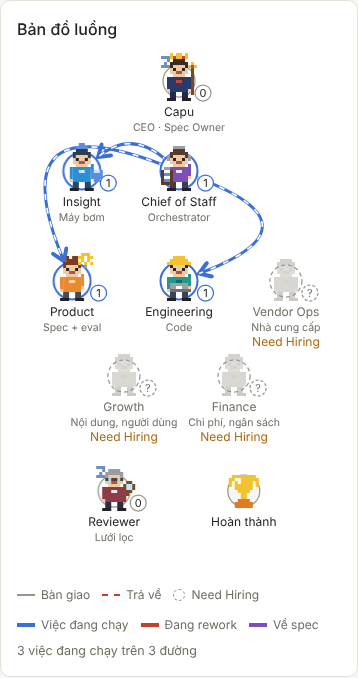
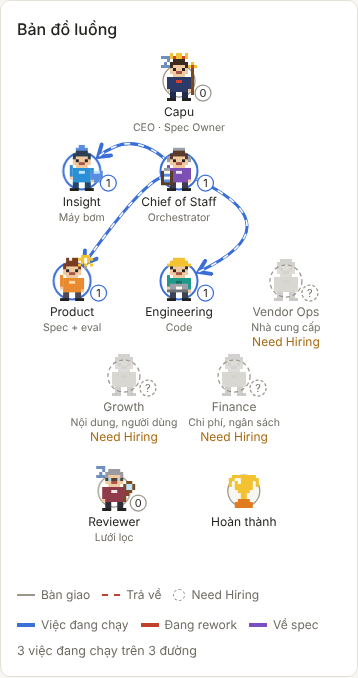
[T-021] Sửa D2: nhãn bậc / spec gắn rõ với đường của nó; giữ bố cục
- Nhãn tier, await-merge, spec-edge đặt sát đường của nó (cách <= 11px, xa mọi đường khác hơn >= 13px) hoặc có đường dẫn [data-leader] ngắn nối nhãn với đường; "chờ anh merge" xuống hai dòng khi hết chỗ
- Đường bàn giao chọn tuyến theo cả cặp nút (tách các đường cùng cặp), không cắt nhãn vai, không đi vòng quá 1,7 lần khoảng cách hai tâm; kết quả nhớ theo bố cục
- Chín tâm nút giữ nguyên; chụp lại 36 ảnh

Claude-Session: https://claude.ai/code/session_01UGMXKqieLcV2K1vphWF5EZ

diff --git a/index.html b/index.html
@@ -529,6 +529,7 @@ function characterState(id,x,now){
 }
 const CHAR_LABEL={revising:'Đang sửa spec',idle:'Rảnh',working:'Đang làm',receiving:'Vừa nhận việc','handing-off':'Vừa giao việc',celebrating:'Hoàn thành',upset:'Bị trả về',hiring:'Chưa tuyển'};
 let stateTimer=0;
+const routeCache={sig:'',routes:new Map()};
 
 function drawFlow(x){
   const box=$('flow');box.innerHTML='';
@@ -547,43 +548,62 @@ function drawFlow(x){
     const tw=tip.node().offsetWidth,th=tip.node().offsetHeight;let px=ev.clientX-rect.left+12,py=ev.clientY-rect.top-th-8;if(px+tw>rect.width)px=rect.width-tw-4;if(py<0)py=ev.clientY-rect.top+14;tip.style('left',px+'px').style('top',py+'px').style('opacity',1)};
   const hide=()=>tip.style('opacity',0);
   // vùng nhãn nhân vật (tên, vai, dòng thứ ba) và nút, đo bằng chữ thật: đường, huy hiệu và nhãn trên đường tránh các vùng này
-  const taken=[],tags=[],roleBox=[],nameBox=[],overlap=(a,b)=>Math.max(0,Math.min(a[0]+a[2],b[0]+b[2])-Math.max(a[0],b[0]))*Math.max(0,Math.min(a[1]+a[3],b[1]+b[3])-Math.max(a[1],b[1]));
+  const taken=[],tags=[],edgePts=[],roleBox=[],nameBox=[],overlap=(a,b)=>Math.max(0,Math.min(a[0]+a[2],b[0]+b[2])-Math.max(a[0],b[0]))*Math.max(0,Math.min(a[1]+a[3],b[1]+b[3])-Math.max(a[1],b[1]));
   const tw=(txt,fs)=>{const t=svg.append('text').style('font-size',fs+'px').text(txt),w=t.node().getComputedTextLength();t.remove();return w};
   Object.keys(pos).forEach(k=>{const [cx,cy]=P(k),L=Math.max(R(k),20),m=team.get(k);
     taken.push([cx-L-2,cy-L-10,2*L+30,2*L+12]);
-    const line=(txt,dy,fs,list)=>{const w=tw(txt,fs)+6,b=[cx-w/2,cy+L+dy-fs,w,fs+5];taken.push(b);if(list)list.push(b)};
+    const line=(txt,dy,fs,list)=>{const w0=tw(txt,fs),w=w0+6;taken.push([cx-w/2,cy+L+dy-fs,w,fs+5]);if(list)list.push([cx-w0/2,cy+L+dy-fs+1,w0,fs+2])};
     line(m?m.name:'Hoàn thành',15,12,nameBox);if(m){line(m.role,30,10.5,roleBox);line('Need Hiring',45,12)}});
-  // Đường bàn giao là cung bậc hai. Thử vài độ cong, hai phía (cong mặc định trước), lấy đường không cắt nhãn vai,
-  // ít cắt tên và nút khác nhất. flip: ưu tiên phía ngược lại, để đường spec không chồng lên đường rework cùng hai đầu.
+  // Đường bàn giao là cung bậc hai. Mỗi đường thử nhiều độ cong, hai phía và điểm bám trên viền nút; chọn đường không cắt nhãn vai,
+  // ít cắt tên, tách xa các đường khác (nhất là cùng cặp nút) để còn chỗ cho nhãn bậc, và không đi vòng quá 1,7 lần khoảng cách hai tâm.
+  // flip: ưu tiên phía ngược lại (đường spec). Giải lần lượt rồi chỉnh lại 2 vòng cho mỗi đường né các đường còn lại; kết quả nhớ theo bố cục.
   const routes=new Map();
-  const edge=(a,b,flip)=>{
-    const key=a+'>'+b+(flip?'f':'');if(routes.has(key))return routes.get(key);
+  const solve=(a,b,flip,others)=>{
     const [x1,y1]=P(a),[x2,y2]=P(b),dx=x2-x1,dy=y2-y1,len=Math.hypot(dx,dy)||1,flat=Math.abs(dy)<1;
-    const nx=flat?0:-dy/len,ny=flat?-1:dx/len,base=flat?30+len*.12:18;
-    const inside=(px,py,b)=>px>b[0]-2&&px<b[0]+b[2]+2&&py>b[1]-2&&py<b[1]+b[3]+2;
-    let best=null,idx=0;
+    const nx=flat?0:-dy/len,ny=flat?-1:dx/len,base=flat?30+len*.12:18,pair=[a,b].sort().join('~');
+    const inside=(px,py,b)=>px>b[0]&&px<b[0]+b[2]&&py>b[1]&&py<b[1]+b[3];
     const tx=dx/len,ty=dy/len,rot=(vx,vy,deg)=>{const c=Math.cos(deg*Math.PI/180),n=Math.sin(deg*Math.PI/180);return [vx*c-vy*n,vx*n+vy*c]};
     // điểm bám trên viền nút cũng được xoay (0, ±45, ±80 độ), để đường rời nút từ bên hông khi phía dưới là nhãn
     const ANG=[[0,0],[0,45],[0,-45],[45,0],[-45,0],[45,45],[-45,-45],[45,-45],[-45,45],[0,80],[0,-80],[80,0],[-80,0],[80,80],[-80,-80],[80,-80],[-80,80]];
+    const N=24;let best=null,idx=0;
     search:for(const [ra,rb] of ANG)for(const shift of [0,-40,40])for(const extra of [0,14,30,50,75,100,130,160])for(const sg of (flip?[-1,1]:[1,-1])){
       const cx=(x1+x2)/2+sg*nx*(base+extra)+tx*shift,cy=(y1+y2)/2+sg*ny*(base+extra)+ty*shift;
       const ua=Math.hypot(cx-x1,cy-y1),ub=Math.hypot(cx-x2,cy-y2);
       const [ax,ay]=rot((cx-x1)/ua,(cy-y1)/ua,ra),[bx,by]=rot((cx-x2)/ub,(cy-y2)/ub,rb);
       const s0=[x1+ax*R(a),y1+ay*R(a)],e0=[x2+bx*(R(b)+3),y2+by*(R(b)+3)];
-      let bad=0;
-      for(let i=1;i<40;i++){const t=i/40,u=1-t,px=u*u*s0[0]+2*u*t*cx+t*t*e0[0],py=u*u*s0[1]+2*u*t*cy+t*t*e0[1];
+      let bad=0,plen=0,lx=s0[0],ly=s0[1];const pts=[];
+      for(let i=1;i<N;i++){const t=i/N,u=1-t,px=u*u*s0[0]+2*u*t*cx+t*t*e0[0],py=u*u*s0[1]+2*u*t*cy+t*t*e0[1];
         if(roleBox.some(q=>inside(px,py,q)))bad+=1000;
         if(nameBox.some(q=>inside(px,py,q)))bad+=10;
-        if(px<4||px>W-4||py<0||py>H)bad+=200}
+        if(px<4||px>W-4||py<0||py>H)bad+=200;
+        if(i>4&&i<N-4)for(const o of others){const d=Math.hypot(o[0]-px,o[1]-py),same=o[2]===pair,lim=same?26:30;if(d<lim){bad+=(lim-d)/lim*(same?60:12);break}}
+        pts.push([px,py]);
+        plen+=Math.hypot(px-lx,py-ly);lx=px;ly=py}
+      if(plen>1.7*len)bad+=5000;  // đường đi vòng quá xa là vẽ lại bố cục
       const sc=bad+idx++*.001;
-      if(!best||sc<best.sc)best={sc,d:`M${s0[0]},${s0[1]}Q${cx},${cy} ${e0[0]},${e0[1]}`};
+      if(!best||sc<best.sc)best={sc,pair,pts:pts.filter((_,i)=>i%2===0).map(q=>[q[0],q[1],pair]),d:`M${s0[0]},${s0[1]}Q${cx},${cy} ${e0[0]},${e0[1]}`};
       if(sc<1)break search;
     }
-    routes.set(key,best.d);return best.d};
+    return best;
+  };
+  const edgeKey=(a,b,flip)=>a+'>'+b+(flip?'f':'');
+  const edge=(a,b,flip)=>(routes.get(edgeKey(a,b,flip))||{}).d;
   const g=svg.append('g');
   const flows=x.flows.filter(r=>pos[r.from]&&pos[r.to]);
   const act=x.active.filter(r=>pos[r.from]&&pos[r.to]).sort((p,q)=>p.since<q.since?1:p.since>q.since?-1:0);
   const dim=act.length?0.45:1;
+  {
+    const want=[],seen=new Set(),add=(a,b,f)=>{const k=edgeKey(a,b,f);if(!seen.has(k)){seen.add(k);want.push([k,a,b,f])}};
+    flows.forEach(r=>{if(r.handoffs>0)add(r.from,r.to,false);if(r.rejects>0)add(r.to,r.from,false)});
+    act.forEach(r=>add(r.from,r.to,!!r.spec));
+    const sig=[W,H,want.map(w=>w[0]).join(','),Object.keys(pos).map(k=>(team.get(k)||{}).role+'|'+((team.get(k)||{}).name)+'|'+R(k)).join(';')].join('#');
+    if(routeCache.sig!==sig){
+      const store=new Map(),others=skip=>{const o=[];for(const [k,v] of store)if(k!==skip)o.push(...v.pts);return o};
+      for(let pass=0;pass<3;pass++)want.forEach(([k,a,b,f])=>{store.set(k,solve(a,b,f,others(k)))});
+      routeCache.sig=sig;routeCache.routes=store;
+    }
+    routeCache.routes.forEach((v,k)=>routes.set(k,v));
+  }
   flows.forEach(r=>{
     if(r.handoffs>0)g.append('path').attr('d',edge(r.from,r.to)).attr('fill','none').attr('stroke','var(--axis)').attr('stroke-width',Math.min(1+r.handoffs*.6,6)).attr('stroke-linecap','round').attr('marker-end','url(#ah)').attr('opacity',dim).on('mousemove',ev=>show(ev,[[null,r.from==='capu'&&r.to==='chief-of-staff'?'Capu giao việc → Chief of Staff':nm(r.from)+' → '+nm(r.to)],[r.from==='capu'&&r.to==='chief-of-staff'?'Lần giao việc':'Lần bàn giao',r.handoffs]])).on('mouseleave',hide);
     if(r.rejects>0)g.append('path').attr('d',edge(r.to,r.from)).attr('fill','none').attr('stroke','var(--bad)').attr('stroke-width',Math.min(1+r.rejects*.8,6)).attr('stroke-dasharray','5 4').attr('marker-end','url(#ar)').attr('opacity',dim).on('mousemove',ev=>show(ev,[[null,nm(r.to)+' trả về '+nm(r.from)],['Lần trả về',r.rejects]])).on('mouseleave',hide);
@@ -598,7 +618,9 @@ function drawFlow(x){
     if(animate)ag.append('path').attr('class','run-flow').attr('data-from',r.from).attr('data-to',r.to).attr('data-speed',r.fast?'fast':'slow').attr('d',d).style('--dur',r.fast?'1s':'3s');
     const lines=kind==='review'?(()=>{const ts=TIERS.filter(k=>reviews.some(t=>tierOf(t)===k));return [[ts.join('·'),'tier']].concat(ts.includes('C')?[['chờ anh merge','await-merge']]:[])})()
       :r.spec?[['Về spec'+(r.tasks.length>1?' ×'+r.tasks.length:''),'spec-edge']]:[];
-    tags.push({r,node:p.node(),col,lines,badge:r.tasks.length>1&&!r.spec});
+    const node=p.node(),pts=[];for(let q=0;q<=node.getTotalLength();q+=2)pts.push(node.getPointAtLength(q));
+    edgePts.push(pts);
+    tags.push({r,node,pts,col,lines,badge:r.tasks.length>1&&!r.spec});
   });
   // huy hiệu ×n và nhãn trên đường: thử nhiều điểm dọc đường (gần giữa trước), trên đường rồi lệch hai phía theo pháp tuyến;
   // lấy chỗ không đè tên, nhãn vai, nút nhân vật, huy hiệu và nhãn khác (lề 2px). Hết chỗ thì lấy chỗ ít đè nhất.
@@ -620,20 +642,66 @@ function drawFlow(x){
     }
     return best;
   }
-  tags.forEach(({r,node,col,lines,badge})=>{
-    if(badge){
-      const s=spot(node,28,18,true);
-      const b=ag.append('g').attr('class','run-badge').attr('transform',`translate(${s.cx},${s.cy})`).style('pointer-events','none');
-      b.append('rect').attr('x',-14).attr('y',-9).attr('width',28).attr('height',18).attr('rx',9).attr('fill','var(--panel)').attr('stroke',col).attr('stroke-width',1.5);
-      b.append('text').attr('text-anchor','middle').attr('dominant-baseline','central').attr('fill','var(--fg)').style('font-size','11px').text('×'+r.tasks.length);
-      taken.push(s.box);
+  // Nhãn đường phải gắn rõ với đường của nó (spec T-020 mục 7): hoặc sát đường (cách <= 11px và xa mọi đường khác hơn
+  // đường của nó ít nhất 13px), hoặc có đường dẫn ngắn nối nhãn với đường. Đặt nhãn trước, huy hiệu sau.
+  const rectDist=(b,p)=>Math.hypot(Math.max(b[0]-p.x,0,p.x-(b[0]+b[2])),Math.max(b[1]-p.y,0,p.y-(b[1]+b[3])));
+  const nearest=(b,pts)=>{let m=1e9;for(const p of pts){const d=rectDist(b,p);if(d<m)m=d}return m};
+  const normalAt=(node,len,t)=>{const q=node.getPointAtLength(Math.min(len,len*t+2)),p0=node.getPointAtLength(Math.max(0,len*t-2)),tl=Math.hypot(q.x-p0.x,q.y-p0.y)||1;return [-(q.y-p0.y)/tl,(q.x-p0.x)/tl]};
+  function attach(tg,w,h){
+    const len=tg.node.getTotalLength(),others=edgePts.filter(e=>e!==tg.pts);
+    for(const t of TS){
+      const pt=tg.node.getPointAtLength(len*t),[nx,ny]=normalAt(tg.node,len,t),half=Math.abs(nx)*w/2+Math.abs(ny)*h/2;
+      for(const d of [0,half+3,-half-3,half+8,-half-8]){
+        const box=[pt.x+nx*d-w/2,pt.y+ny*d-h/2,w,h];
+        if(cost(box))continue;
+        const own=nearest(box,tg.pts);
+        if(own<=11&&others.every(e=>nearest(box,e)-own>=13))return {box};
+      }
     }
-    if(!lines.length)return;
-    // mỗi dòng tự tìm chỗ, để không dòng nào phải đè lên tên hay nhãn vai chỉ vì đi chung nhóm
+    return null;
+  }
+  function leaderTo(tg,w,h){
+    const len=tg.node.getTotalLength(),others=edgePts.filter(e=>e!==tg.pts);
+    const clearOf=(q,d)=>!others.some(e=>e.some(o=>Math.hypot(o.x-q.x,o.y-q.y)<d));
+    for(const g of [10,18,26,36,46,55])for(const t of TS){
+      const pt=tg.node.getPointAtLength(len*t);
+      if(!clearOf(pt,6))continue;
+      const [bx,by]=normalAt(tg.node,len,t);
+      for(const deg of [0,180,40,-40,140,-140,90,-90,65,-65,115,-115]){
+        const a=deg*Math.PI/180,nx=bx*Math.cos(a)-by*Math.sin(a),ny=bx*Math.sin(a)+by*Math.cos(a),half=Math.abs(nx)*w/2+Math.abs(ny)*h/2;
+        const box=[pt.x+nx*(g+half)-w/2,pt.y+ny*(g+half)-h/2,w,h];
+        if(cost(box))continue;
+        // đầu kia của đường dẫn là điểm của hộp nhãn gần chỗ bám nhất, lấn vào 2px
+        const ex=Math.min(Math.max(pt.x,box[0]+2),box[0]+w-2),ey=Math.min(Math.max(pt.y,box[1]+2),box[1]+h-2),ll=Math.hypot(ex-pt.x,ey-pt.y);
+        if(ll<4||ll>55)continue;
+        let ok=true;for(let k=0;k<=ll&&ok;k+=2){const q={x:pt.x+(ex-pt.x)*k/ll,y:pt.y+(ey-pt.y)*k/ll};
+          if(!clearOf(q,5)||roleBox.concat(nameBox).some(b=>q.x>b[0]&&q.x<b[0]+b[2]&&q.y>b[1]&&q.y<b[1]+b[3]))ok=false}
+        if(ok)return {box,lead:`M${pt.x},${pt.y}L${ex},${ey}`};
+      }
+    }
+    return null;
+  }
+  tags.forEach(tg=>{
+    const {r,col,lines}=tg;
     lines.forEach(([text,label])=>{
-      const s=spot(node,tw(text,11)+4,13,false);taken.push(s.box);
-      ag.append('text').attr('data-label',label).attr('data-from',r.from).attr('data-to',r.to).attr('x',s.cx).attr('y',s.box[1]+10).attr('text-anchor','middle').attr('fill',col).attr('stroke','var(--panel)').attr('stroke-width',3).attr('paint-order','stroke').style('font-size','11px').style('pointer-events','none').text(text);
+      // "chờ anh merge" rộng 78px; hết chỗ thì xuống hai dòng (chữ vẫn nguyên)
+      const variants=label==='await-merge'?[[text],['chờ anh ','merge']]:[[text]];
+      let s=null,rows=variants[0];
+      for(const v of variants){const w=Math.max(...v.map(t=>tw(t,11)))+4,h=13*v.length;s=attach(tg,w,h)||leaderTo(tg,w,h);if(s){rows=v;break}}
+      if(!s)s=spot(tg.node,tw(text,11)+4,13,false);
+      taken.push(s.box);
+      if(s.lead)ag.append('path').attr('data-leader','').attr('data-for',label).attr('data-from',r.from).attr('data-to',r.to).attr('d',s.lead).attr('fill','none').attr('stroke',col).attr('stroke-width',1.5).style('pointer-events','none');
+      const tx=ag.append('text').attr('data-label',label).attr('data-from',r.from).attr('data-to',r.to).attr('text-anchor','middle').attr('fill',col).attr('stroke','var(--panel)').attr('stroke-width',3).attr('paint-order','stroke').style('font-size','11px').style('pointer-events','none');
+      const cx=s.box[0]+s.box[2]/2;
+      rows.forEach((t,k)=>tx.append('tspan').attr('x',cx).attr('y',s.box[1]+10+13*k).text(t));
     });
+  });
+  tags.filter(tg=>tg.badge).forEach(({r,node,col})=>{
+    const s=spot(node,28,18,true);
+    const b=ag.append('g').attr('class','run-badge').attr('transform',`translate(${s.cx},${s.cy})`).style('pointer-events','none');
+    b.append('rect').attr('x',-14).attr('y',-9).attr('width',28).attr('height',18).attr('rx',9).attr('fill','var(--panel)').attr('stroke',col).attr('stroke-width',1.5);
+    b.append('text').attr('text-anchor','middle').attr('dominant-baseline','central').attr('fill','var(--fg)').style('font-size','11px').text('×'+r.tasks.length);
+    taken.push(s.box);
   });
   const live=$('flow-live');
   if(live)live.textContent=act.length?act.reduce((n,r)=>n+r.tasks.length,0)+' việc đang chạy trên '+act.length+' đường':'Không có việc nào đang chạy';
